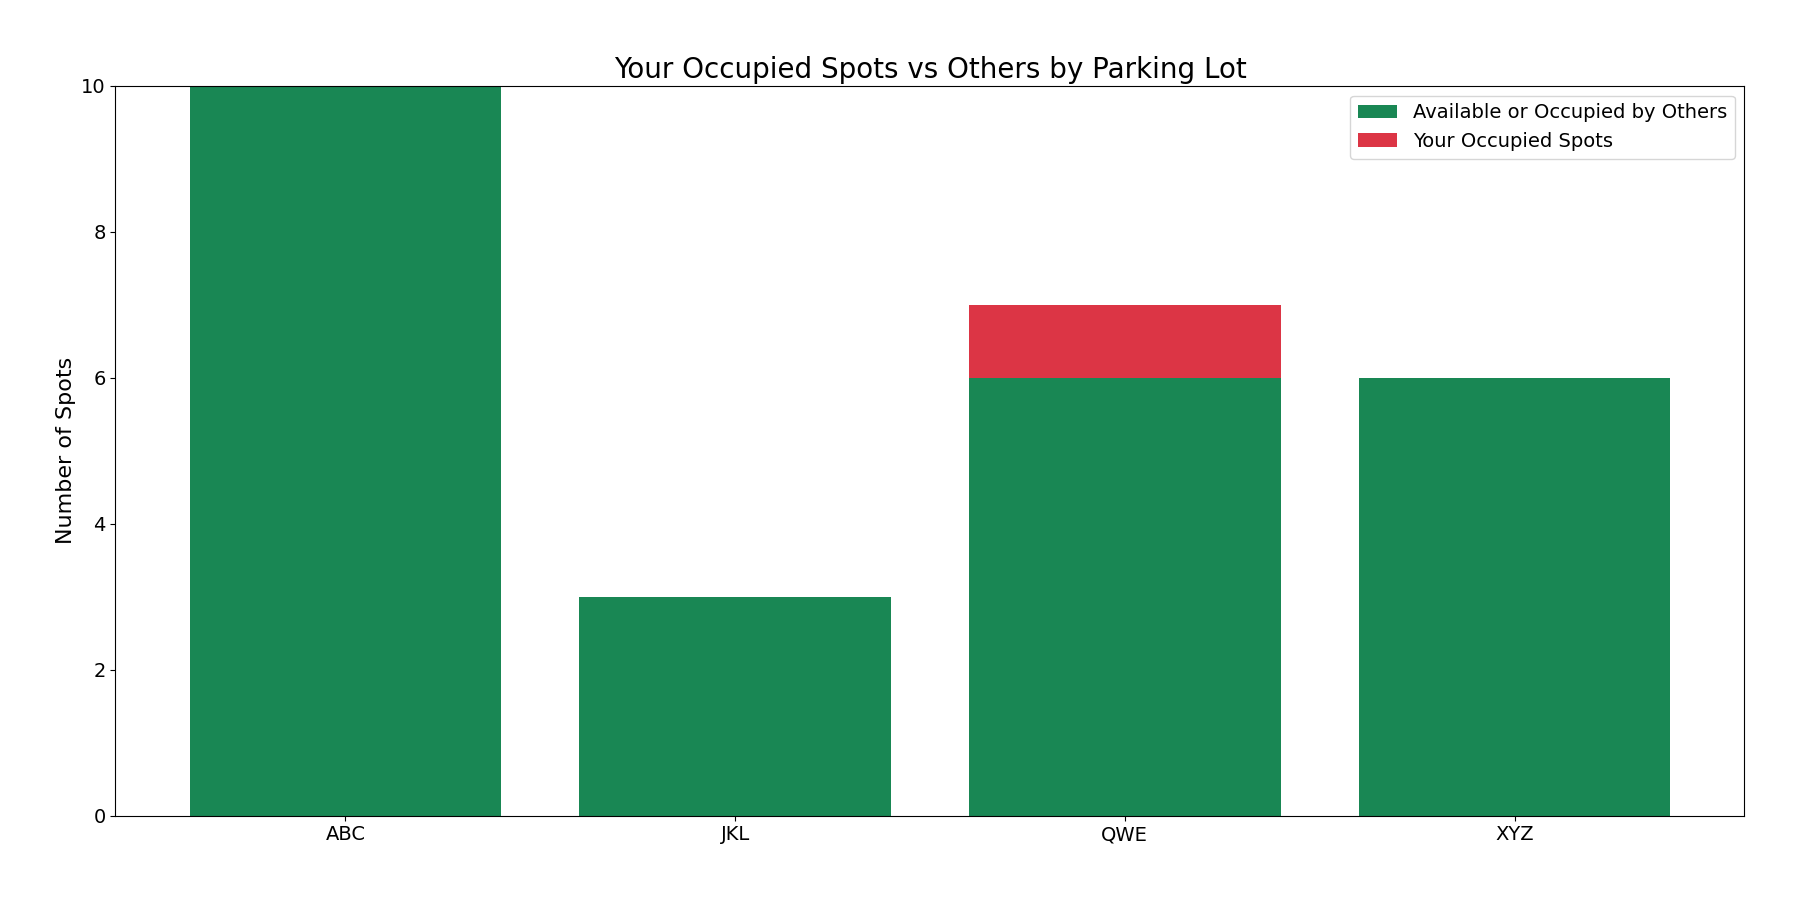
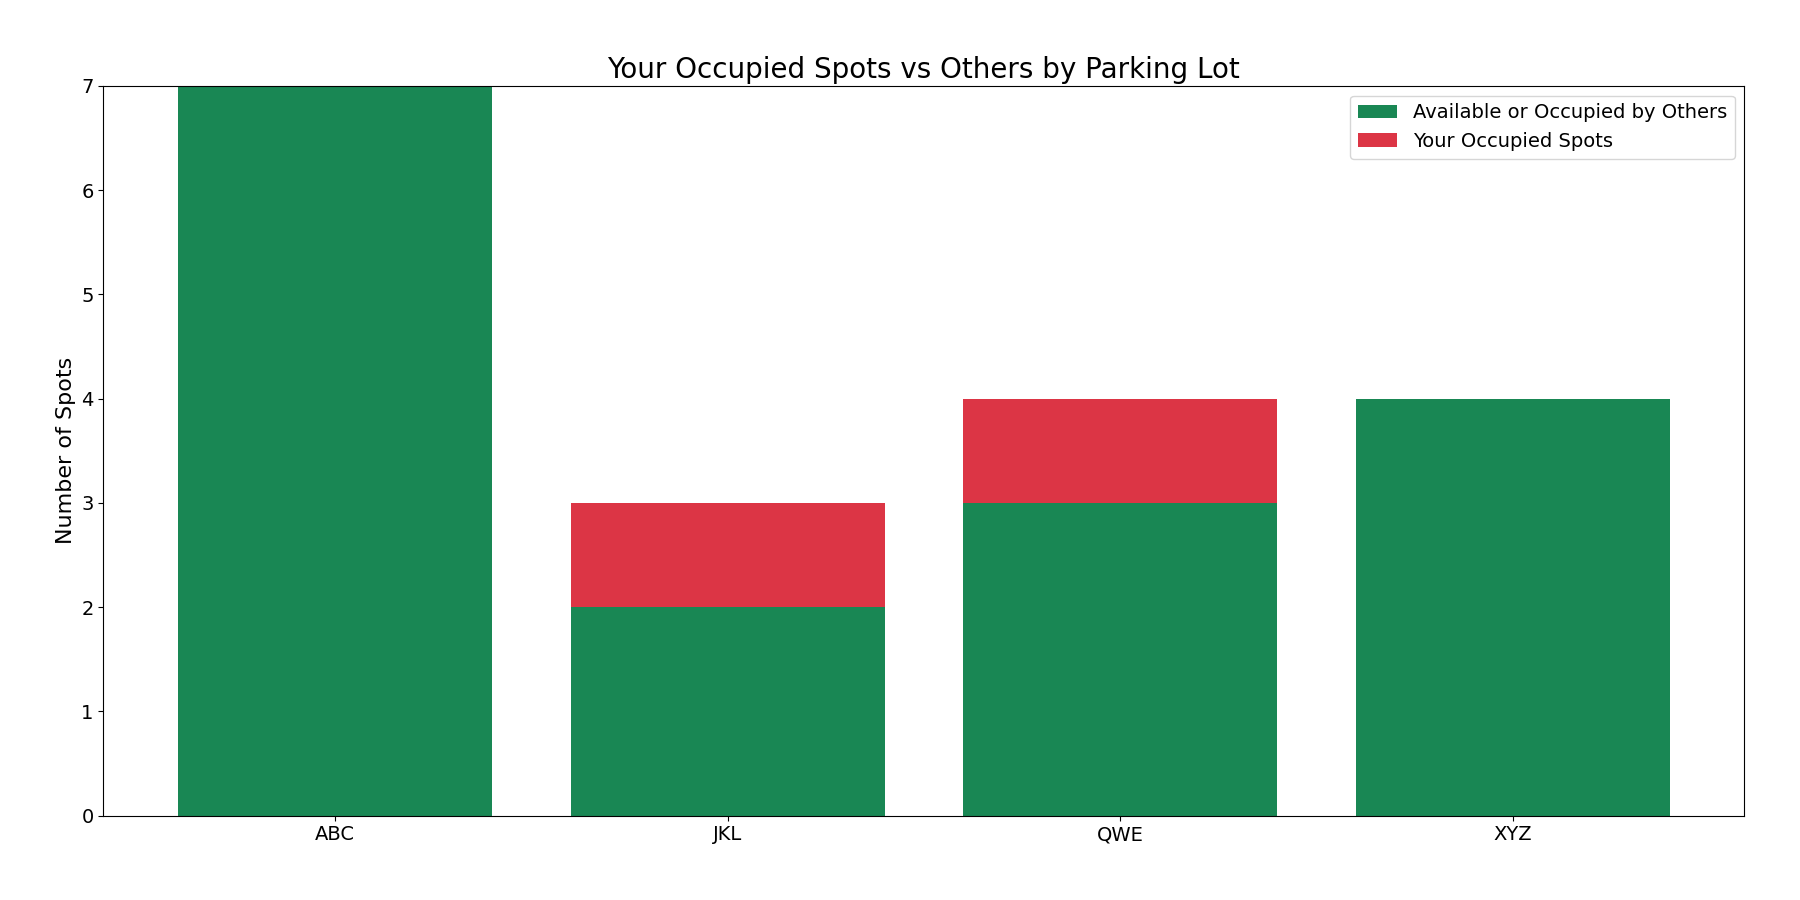
flash msgs

diff --git a/templates/user.html b/templates/user.html
@@ -42,7 +42,8 @@
 </head>
 <body>
 
-  <!-- Navbar -->
+
+
   
 
   <nav class="navbar navbar-expand-lg navbar-light bg-light">
@@ -54,7 +55,10 @@
           <a class="nav-link" href="/user">Home</a>
         </li>
         <li class="nav-item">
-          <a class="nav-link" href="/">Summary</a>
+          <a class="nav-link" href="/history">Booking History</a>
+        </li>
+        <li class="nav-item">
+          <a class="nav-link" href="/user_summary">Summary</a>
         </li>
         <li class="nav-item">
             <a class="nav-link active" aria-current="page" href="/logout">Logout</a>
@@ -63,6 +67,20 @@
     </div>
   </div>
 </nav>
+
+  <!-- Flash messages -->
+{% with messages = get_flashed_messages(with_categories=true) %}
+  {% if messages %}
+    <div class="container mt-3">
+      {% for category, message in messages %}
+        <div class="alert alert-{{ category }} alert-dismissible fade show" role="alert">
+          {{ message }}
+          <button type="button" class="btn-close" data-bs-dismiss="alert" aria-label="Close"></button>
+        </div>
+      {% endfor %}
+    </div>
+  {% endif %}
+{% endwith %}
 
   <!-- Main Content -->
   <div class="container">

diff --git a/templates/parking.html b/templates/parking.html
@@ -30,6 +30,21 @@
 
 <div class="container mt-4">
 
+  <!-- Flash Messages -->
+{% with messages = get_flashed_messages(with_categories=true) %}
+  {% if messages %}
+    <div class="col-md-10 mx-auto">
+      {% for category, message in messages %}
+        <div class="alert alert-{{ 'danger' if category == 'error' else category }} alert-dismissible fade show mt-3" role="alert">
+          {{ message }}
+          <button type="button" class="btn-close" data-bs-dismiss="alert" aria-label="Close"></button>
+        </div>
+      {% endfor %}
+    </div>
+  {% endif %}
+{% endwith %}
+
+
   <!-- Enhanced Search Bar with Dropdown -->
   <div class="mb-4">
     <div class="col-md-10 mx-auto">
@@ -85,6 +100,7 @@
                 data-bs-toggle="modal" 
                 data-bs-target="#spotModal{{ spot.id }}" 
                 title="View Spot {{ spot.spot_number }}">
+
                 <span>{{ spot.spot_number }}</span>
               </button>
               {% endfor %}
@@ -133,6 +149,8 @@
 
           {% if spot.status == 'A' %}
             <a href="/delete_spot/{{ spot.id }}" onclick="return confirm('Are you sure you want to delete this spot?')" class="btn btn-sm btn-danger">Delete Spot</a>
+          {% else %}
+            <button class="btn btn-sm btn-secondary" disabled>Occupied</button>
           {% endif %}
         </div>
       </div>

diff --git a/templates/login.html b/templates/login.html
@@ -33,6 +33,8 @@
 <body>
     <div class="login-container">
         <h1 class="login-title">Login</h1>
+
+        
         <form action="/login" method="POST">
             <div class="mb-3">
                 <label for="username" class="form-label">Username</label>
@@ -42,6 +44,19 @@
                 <label for="password" class="form-label">Password</label>
                 <input type="password" class="form-control" id="password" name="password" required>
             </div>
+
+            {% with messages = get_flashed_messages(with_categories=true) %}
+  {% if messages %}
+    {% for category, message in messages %}
+      <div class="alert alert-{{ category }} alert-dismissible fade show" role="alert">
+        {{ message }}
+        <button type="button" class="btn-close" data-bs-dismiss="alert" aria-label="Close"></button>
+      </div>
+    {% endfor %}
+  {% endif %}
+{% endwith %}
+
+
             <div class="d-grid mb-3">
                 <button type="submit" class="btn btn-primary">Login</button>
             </div>

diff --git a/templates/edit_parking.html b/templates/edit_parking.html
@@ -9,6 +9,18 @@
 </head>
 <body>
 
+    {% with messages = get_flashed_messages(with_categories=true) %}
+  {% if messages %}
+    {% for category, message in messages %}
+      <div class="alert alert-{{ 'danger' if category == 'error' else category }} alert-dismissible fade show" role="alert">
+        {{ message }}
+        <button type="button" class="btn-close" data-bs-dismiss="alert" aria-label="Close"></button>
+      </div>
+    {% endfor %}
+  {% endif %}
+{% endwith %}
+
+
     <div class="container">
         <div class="row justify-content-center">
             <div class="col-md-4">

diff --git a/templates/booking_history.html b/templates/booking_history.html
@@ -37,7 +37,7 @@
           <a class="nav-link" href="/user">Home</a>
         </li>
         <li class="nav-item">
-          <a class="nav-link" href="/">Summary</a>
+          <a class="nav-link" href="/user_summary">Summary</a>
         </li>
         <li class="nav-item">
             <a class="nav-link active" aria-current="page" href="/logout">Logout</a>

diff --git a/app.py b/app.py
@@ -94,7 +94,7 @@ def login():
         user = User.query.filter_by(username=username).first()
         if user :
             if not check_password_hash(user.password, password):
-
+                flash("Username and Password do not exist.", "danger")
                 return redirect(url_for('login'))
             if user.username == 'admin' :
                 session['username'] = username
@@ -103,8 +103,8 @@ def login():
                 session['username'] = username
                 session['user_id'] = user.id
                 return redirect(url_for('user'))
-           
         else :
+            flash("Username and Password do not exist.", "danger")
             return redirect(url_for('login'))
     return render_template('login.html')
 
@@ -148,6 +148,42 @@ def user():
         ).count()
 
     return render_template('user.html', parkings=parkings, available_counts=available_counts, query=query)
+
[email redacted]('/booking/<int:parking_id>', methods=['GET', 'POST'])
+def booking(parking_id):
+    if 'username' not in session:
+        return redirect(url_for('login'))
+
+    parking = Parking.query.get_or_404(parking_id)
+    user = User.query.filter_by(username=session['username']).first()
+
+    if request.method == 'POST':
+        vehicle_number = request.form['vehicle_number']
+
+        # Find the first available spot
+        available_spot = ParkingSpot.query.filter_by(parking_id=parking_id, status='A').first()
+        if not available_spot:
+            flash('No available spots', 'error')
+            return redirect(url_for('user'))
+
+        # Create a booking
+        new_booking = Booking(
+            user_id=user.id,
+            spot_id=available_spot.id,
+            vehicle_number=vehicle_number,
+            start_time=datetime.now(),
+            status='O',
+            parking_cost=parking.price
+        )
+        available_spot.status = 'O'
+        db.session.add(new_booking)
+        db.session.commit()
+
+        flash('Booking successful!', 'success')
+        return redirect(url_for('user'))
+
+    return render_template('booking.html', parking=parking, user_id=user.id)
+
 
 
 @app.route('/parking', methods=['GET', 'POST'])
@@ -193,43 +229,56 @@ def add_parking():
         return redirect(url_for('parking'))
     return render_template('add_parking.html')
 
+
+
 @app.route('/edit_parking/<int:parking_id>', methods=['GET', 'POST'])
 def edit_parking(parking_id):
-    if 'username' not in session:
-        return redirect(url_for('login'))
-
     parking = Parking.query.get_or_404(parking_id)
 
     if request.method == 'POST':
-        parking.prime_location_name = request.form['prime_location_name']
-        parking.address = request.form['address']
-        parking.pin_code = request.form['pin_code']
-        parking.price = request.form['price']
-        new_spot_count = int(request.form['number_of_spots'])
+        prime_location_name = request.form['prime_location_name']
+        address = request.form['address']
+        pin_code = request.form['pin_code']
+        price = float(request.form['price'])
+        new_total_spots = int(request.form['number_of_spots'])
 
-        current_spots = {spot.spot_number: spot for spot in parking.spots}
-        current_spot_numbers = set(current_spots.keys())
+        # Count currently occupied spots
+        occupied_count = ParkingSpot.query.filter_by(parking_id=parking_id, status='O').count()
 
-        # Add missing spots
-        for i in range(1, new_spot_count + 1):
-            if i not in current_spot_numbers:
-                new_spot = ParkingSpot(parking_id=parking.id, spot_number=i, status='A')
-                db.session.add(new_spot)
+        if new_total_spots < occupied_count:
+            flash(f"Cannot set total spots less than currently occupied ({occupied_count}).", "danger")
+            return render_template('edit_parking.html', parking=parking, occupied_count=occupied_count)
 
-        # Remove extra available & unused spots
-        for spot_number, spot in current_spots.items():
-            if spot_number > new_spot_count:
-                has_booking = Booking.query.filter_by(spot_id=spot.id).first()
-                if spot.status == 'A' and not has_booking:
-                    db.session.delete(spot)
+        # Update fields
+        parking.prime_location_name = prime_location_name
+        parking.address = address
+        parking.pin_code = pin_code
+        parking.price = price
 
-        parking.number_of_spots = new_spot_count
+        current_total_spots = parking.number_of_spots
+        parking.number_of_spots = new_total_spots
         db.session.commit()
 
-        flash("Parking lot updated successfully!", "success")
-        return redirect(url_for('parking'))
+        # If spots increased, add new ParkingSpot rows
+        if new_total_spots > current_total_spots:
+            for spot_num in range(current_total_spots + 1, new_total_spots + 1):
+                new_spot = ParkingSpot(
+                    parking_id=parking.id,
+                    spot_number=spot_num,
+                    status='A'
+                )
+                db.session.add(new_spot)
+            db.session.commit()
+            flash(f"{new_total_spots - current_total_spots} new spot(s) added successfully.", "success")
+        else:
+            flash("Parking lot updated successfully.", "success")
 
-    return render_template('edit_parking.html', parking=parking)
+        return redirect(url_for('parking'))  # Change route if needed
+
+    # GET request
+    occupied_count = ParkingSpot.query.filter_by(parking_id=parking_id, status='O').count()
+    return render_template('edit_parking.html', parking=parking, occupied_count=occupied_count)
+
 
 
 
@@ -241,9 +290,10 @@ def delete_parking(parking_id):
     if parking.spots:
         for spot in parking.spots:
             if spot.status == 'O':
-                flash('Cannot delete a parking lot with active bookings.' , 'error')
+                flash('Cannot delete a parking lot with active bookings.' , 'danger')
                 return redirect(url_for('parking'))
-            db.session.delete(spot)
+            
+    db.session.delete(spot)
     db.session.delete(parking)
     db.session.commit()
     return redirect(url_for('parking'))
@@ -255,20 +305,26 @@ def history():
     all_bookings = Booking.query.filter_by(user_id=session['user_id']).all()
     recent_bookings = [b for b in all_bookings if b.status == 'O']
     past_bookings = [b for b in all_bookings if b.status != 'O']
-    return render_template('booking_history.html', recent_bookings=recent_bookings, past_bookings=past_bookings)
+    return render_template('booking_history.html', recent_bookings=recent_bookings, past_bookings=past_bookings)    
+  
+   
 
-
[email redacted]('/delete_spot/<int:spot_id>', methods=['GET','POST'])
[email redacted]('/delete_spot/<int:spot_id>')
 def delete_spot(spot_id):
     if 'username' not in session:
         return redirect(url_for('login'))
     spot = ParkingSpot.query.get_or_404(spot_id)
+
+    # Prevent deletion if spot is occupied
     if spot.status == 'O':
-        flash('Cannot delete a spot with active bookings.', 'error')
-        return redirect(url_for('parking'))
+        flash('Cannot delete spot: it is currently occupied.', 'danger')
+        return redirect(url_for('parking'))  # or wherever your admin dashboard is
+
     db.session.delete(spot)
     db.session.commit()
+    flash(f'Spot {spot.spot_number} deleted successfully.', 'success')
     return redirect(url_for('parking'))
+
 
 @app.route('/release/<int:booking_id>', methods=['GET', 'POST'])
 def release(booking_id):